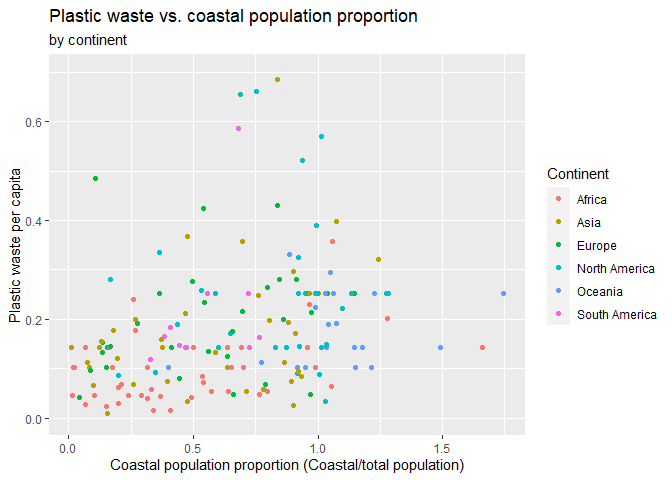
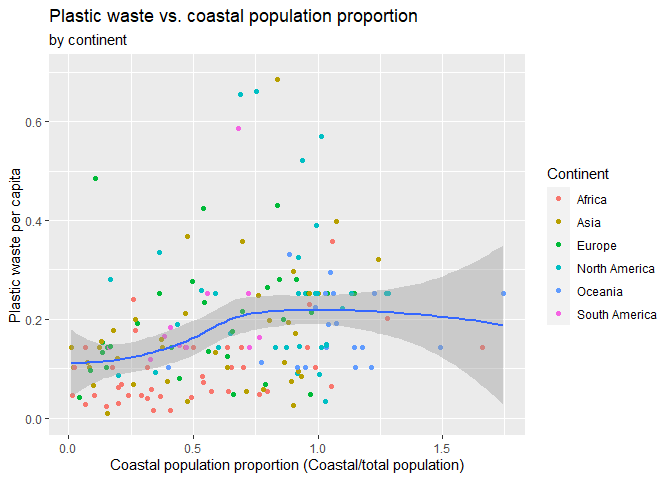
Plastic Waste Lab
Complete recreated visual

Changed region(s): [[0.0938, 0.5, 0.75, 0.8438]]

diff --git a/lab-02.md b/lab-02.md
@@ -171,11 +171,12 @@ ggplot(data = plastic_waste,
 Remove this text, and add your answer for Exercise 8 here.
 
 ``` r
-ggplot(data = plastic_waste, 
-       mapping = aes(x = coastal_pop/total_pop,
+ggplot(data = plastic_waste)+
+  geom_point(mapping = aes(x = coastal_pop/total_pop,
                      y =  plastic_waste_per_cap,
                      color = continent)) +
-  geom_point() +
+    geom_smooth(mapping = aes(x = coastal_pop/total_pop,
+                              y = plastic_waste_per_cap))+
   ylim(0, 0.7) +
   labs(title = "Plastic waste vs. coastal population proportion",
        subtitle = "by continent",
@@ -183,6 +184,10 @@ ggplot(data = plastic_waste,
        y = "Plastic waste per capita",
        color = "Continent")
 ```
+
+    ## `geom_smooth()` using method = 'loess' and formula 'y ~ x'
+
+    ## Warning: Removed 62 rows containing non-finite values (stat_smooth).
 
     ## Warning: Removed 62 rows containing missing values (geom_point).
 
